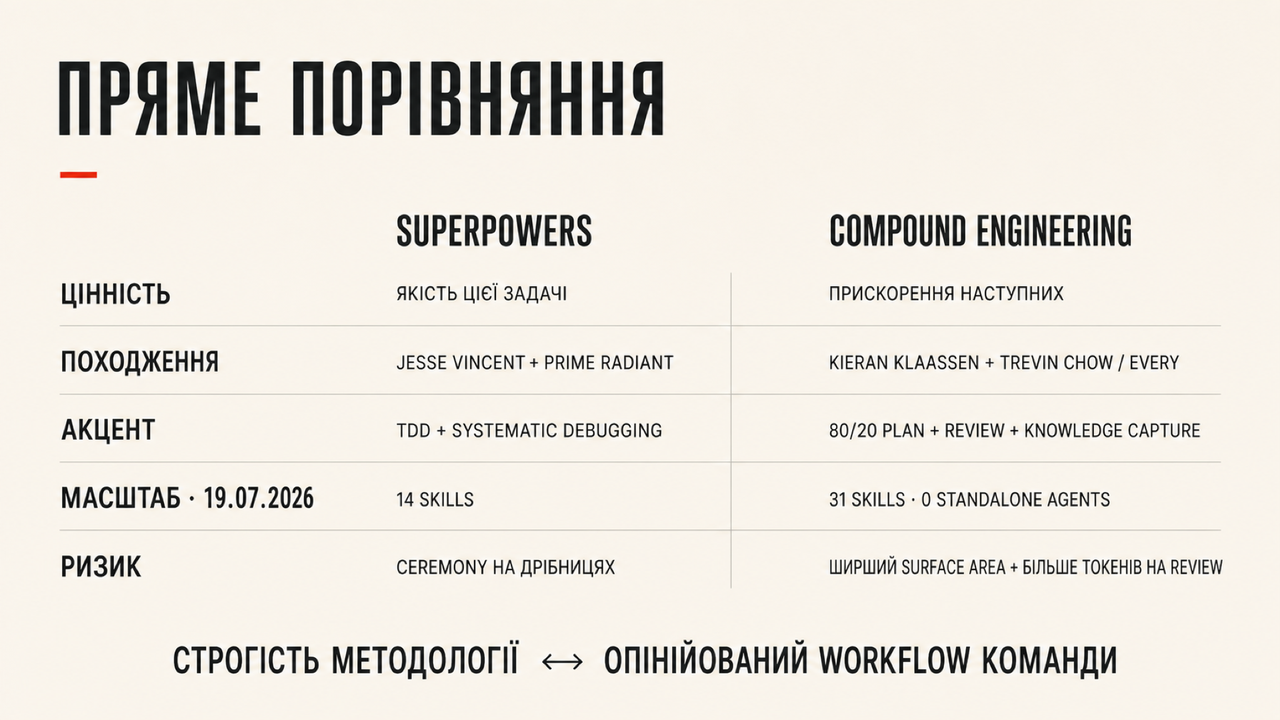
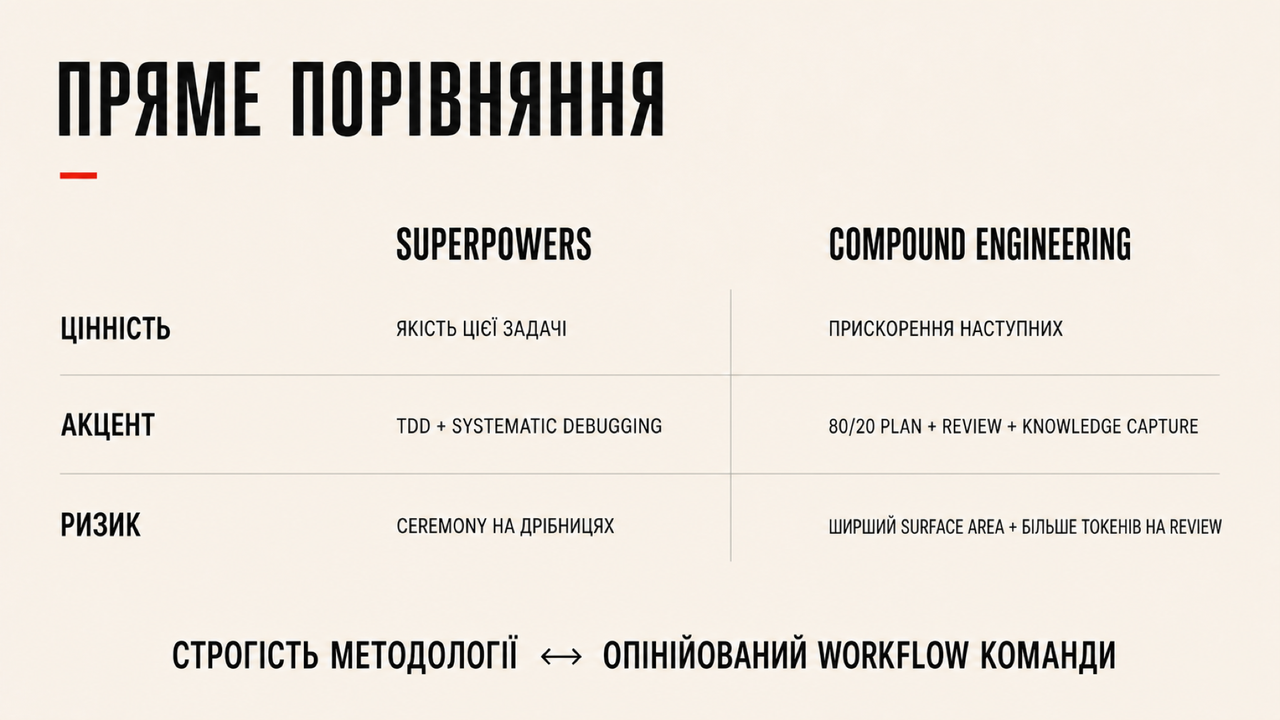
chore

diff --git a/pilots/02-superpowers-vs-compound-engineering/evaluation/review.md b/pilots/02-superpowers-vs-compound-engineering/evaluation/review.md
@@ -63,16 +63,16 @@ All three normalized candidates for every slide were inspected together at `1920
 ## Slide 05 — Direct comparison
 
 - Candidates: `05-direct-comparison-v1.png`, `05-direct-comparison-v2.png`, `05-direct-comparison-v3.png`.
-- Rejected v1: the oversized headline and heavier row rules reduce space for the comparison body.
-- Rejected v2: the full-width coral baseline overstates the Signal and makes the table feel more editorial than analytical.
+- Rejected v1: the enlarged bottom synthesis line competes with the three comparison rows.
+- Rejected v2: the wider vertical gaps make the table feel looser and reduce the connection between criteria and peer values.
 - **Selected:** `05-direct-comparison-v3.png`
-- Selection rationale: the most balanced three-column comparison, exact five-row alignment, quiet dividers, and strongest readability for the central factual slide.
-- Exact-copy review: pass. All 19 manifest strings appear once; no translations, ratings, duplicates, or extra text.
+- Selection rationale: the most balanced three-column comparison, exact three-row alignment, quiet dividers, and strongest readability after removing the origin and scale rows.
+- Exact-copy review: pass. All 13 manifest strings appear once; `ПОХОДЖЕННЯ`, `МАСШТАБ · 19.07.2026`, and their four peer values are absent; no translations, duplicates, or extra text.
 - Dimensions/color mode: pass, `1920×1080` RGB PNG. Preview: `1280×720` RGB PNG.
 - Clipping/contrast/reading order: pass. Visual mechanism and expression B: pass.
 - Removable-element check: pass; criterion gutter, peer columns, row separators, and bottom synthesis line all support comparison.
[4 lines of base64/hex data omitted]
 
 ## Slide 06 — Orthogonal combination
 
@@ -124,4 +124,4 @@ All three normalized candidates for every slide were inspected together at `1920
 - Exact-copy review: pass for all eight canonicals.
 - Presentation review: pass at both `1920×1080` and `1280×720`; no clipping or inaccessible low-contrast text observed.
 - Contact-sheet review: pass — centered four-by-two grid at `3840×2160` preserves sequence order.
-- Remaining visual risk: slides 5 and 8 contain the smallest body text in the set; both remain readable at the required `1280×720` review size but should not be repurposed as mobile portrait assets.
+- Remaining visual risk: slide 8 contains the smallest body text in the set; it remains readable at the required `1280×720` review size but should not be repurposed as a mobile portrait asset.

diff --git a/STATUS.md b/STATUS.md
@@ -9,7 +9,7 @@
 
 The root `README.md` now presents CSDL as a product and design language before repository operations. It introduces the problem, benefits, visual grammar, system architecture, Prompt DSL example, applied evidence, creation workflow, and status in English without changing any versioned contract or accepted raster.
 
-Pilot 02 is complete under `pilots/02-superpowers-vs-compound-engineering/`. The additive eight-slide Ukrainian series compares Superpowers and Compound Engineering as orthogonal disciplines for within-task execution and between-task knowledge capture. It includes 24 reviewed GPT Image 2 candidates, eight exact-copy `1920×1080` RGB canonicals, eight `1280×720` previews, one centered `3840×2160` contact sheet, current primary-source fact mapping, Prompt DSL v0.5 packages, hashes, selection evidence, and passing rubric scores. The work does not alter Pilot 01, any previously accepted raster, Prompt DSL v0.5, the fifteen-component vocabulary, the 23-recipe library, or the completed Milestone 7 publication contract.
+Pilot 02 is complete under `pilots/02-superpowers-vs-compound-engineering/`. The additive eight-slide Ukrainian series compares Superpowers and Compound Engineering as orthogonal disciplines for within-task execution and between-task knowledge capture; its central comparison uses the user-approved three-row scope of value, emphasis, and risk. It includes 24 reviewed GPT Image 2 candidates, eight exact-copy `1920×1080` RGB canonicals, eight `1280×720` previews, one centered `3840×2160` contact sheet, current primary-source fact mapping, Prompt DSL v0.5 packages, hashes, selection evidence, and passing rubric scores. The work does not alter Pilot 01, any previously accepted raster, Prompt DSL v0.5, the fifteen-component vocabulary, the 23-recipe library, or the completed Milestone 7 publication contract.
 
 An additive seven-slide English demo infographic is available under `docs/demo-infographic/`. It translates the original five-slide explanatory sequence, adds a Recipes bridge and a human/agent parity slide, and includes exact-copy prompts, 21-candidate selection evidence, seven `1920×1080` RGB PNG files, and one `3840×2160` contact sheet. It is documentation-only, does not begin Milestone 8, and does not modify any accepted raster evidence or versioned CSDL contract.
 

diff --git a/CHANGELOG.md b/CHANGELOG.md
@@ -2,6 +2,7 @@
 
 ## Unreleased
 
+- Simplified Pilot 02 Slide 05 at user request by removing the origin and scale rows, regenerating and reviewing three exact-copy candidates, promoting the cleanest three-row comparison, and rebuilding its preview, contact sheet, hashes, and review evidence.
 - Reframed the root README as an English product introduction to CSDL, with its problem, benefits, visual grammar, system layers, Prompt DSL example, applied visual evidence, creation workflow, validation entrypoint, and current release/licensing boundary.
 - Added Pilot 02, an eight-slide Ukrainian `Superpowers vs Compound Engineering` CSDL series with a user-approved `A, A, B, A, B, A, C, A` rhythm, primary-source fact corrections, Prompt DSL v0.5 packages, 24 reviewed GPT Image 2 candidates, eight exact-copy `1920×1080` RGB canonicals, landscape previews, a centered `3840×2160` contact sheet, persisted selection/hashing evidence, and passing rubric gates; no accepted prior raster or versioned CSDL contract was changed.
 - Generalized the landscape contact-sheet builder from a fixed seven-slide layout to a centered grid adapted to any positive slide count, with focused seven-slide, eight-slide, and empty-input tests.

diff --git a/pilots/02-superpowers-vs-compound-engineering/sources.md b/pilots/02-superpowers-vs-compound-engineering/sources.md
@@ -44,4 +44,4 @@ This file separates primary-source facts, user-approved editorial premises, and 
 
 - `14 SKILLS` for Superpowers was counted from the v6.1.1 skill inventory available on 2026-07-19.
 - `31 SKILLS · 0 STANDALONE AGENTS` is stated by the Compound Engineering v3.19.0 README available on 2026-07-19.
-- These values are explicitly dated on Slide 05 and must be re-verified before future regeneration or republication.
+- These point-in-time values remain in the research record but were removed from Slide 05 at the user's request; re-verify them before any future use.
